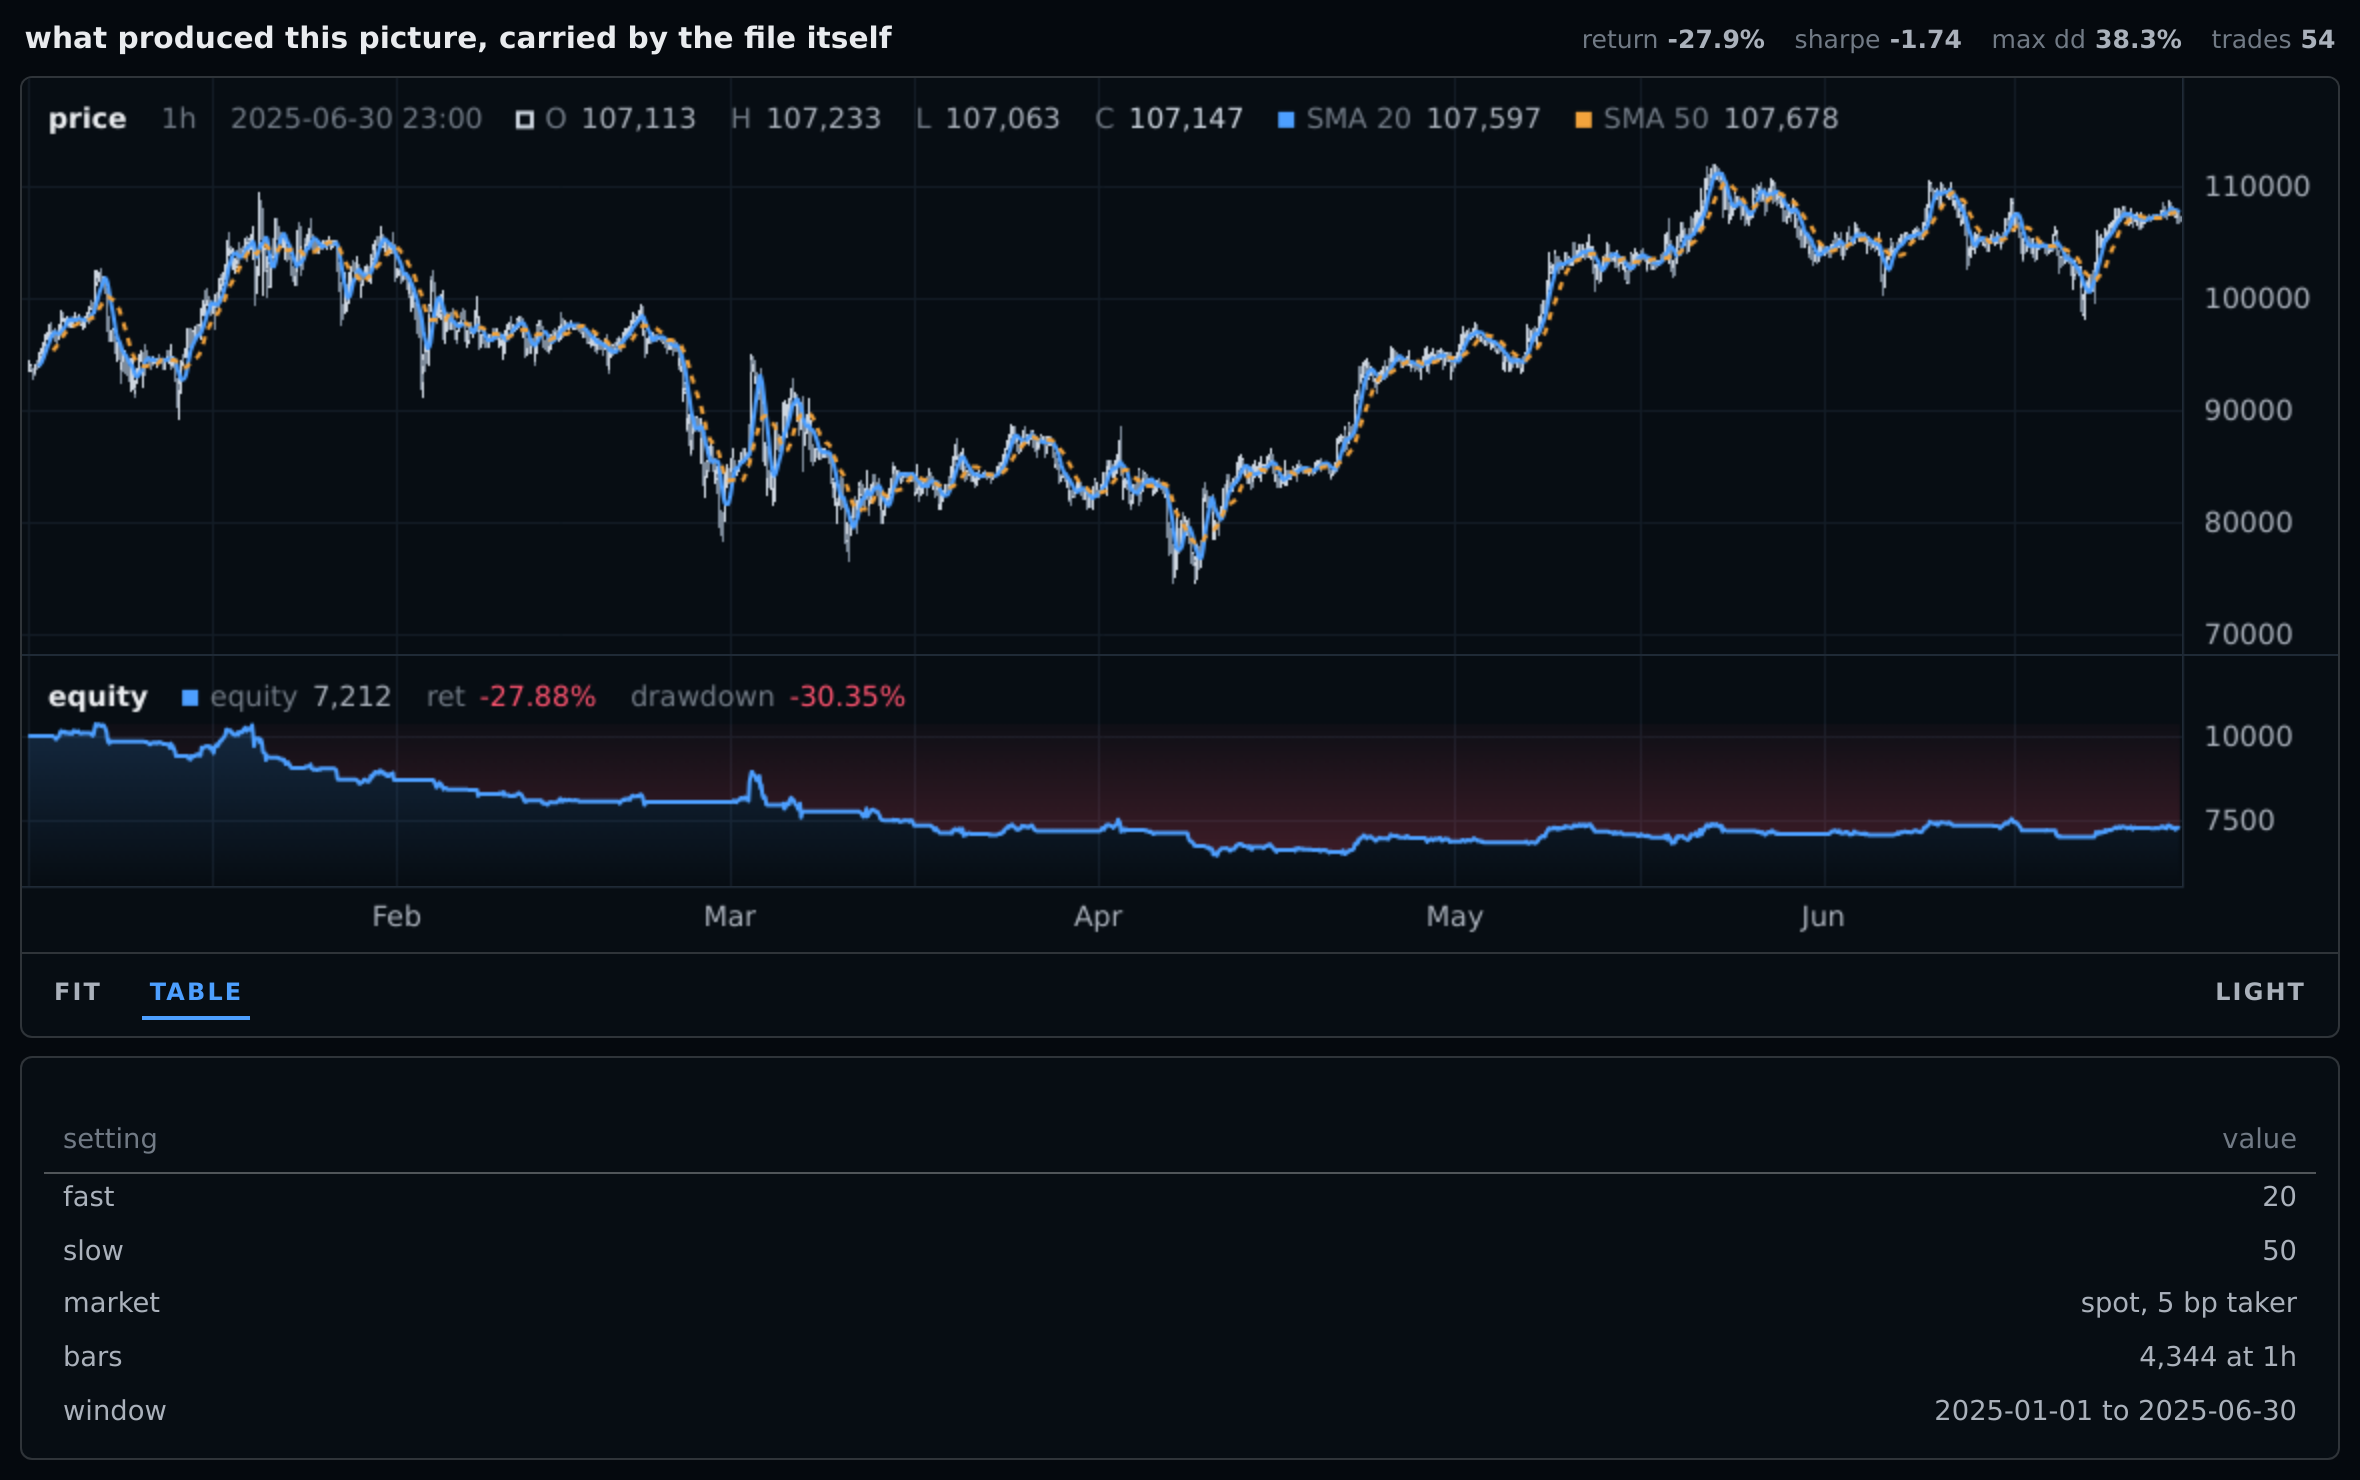
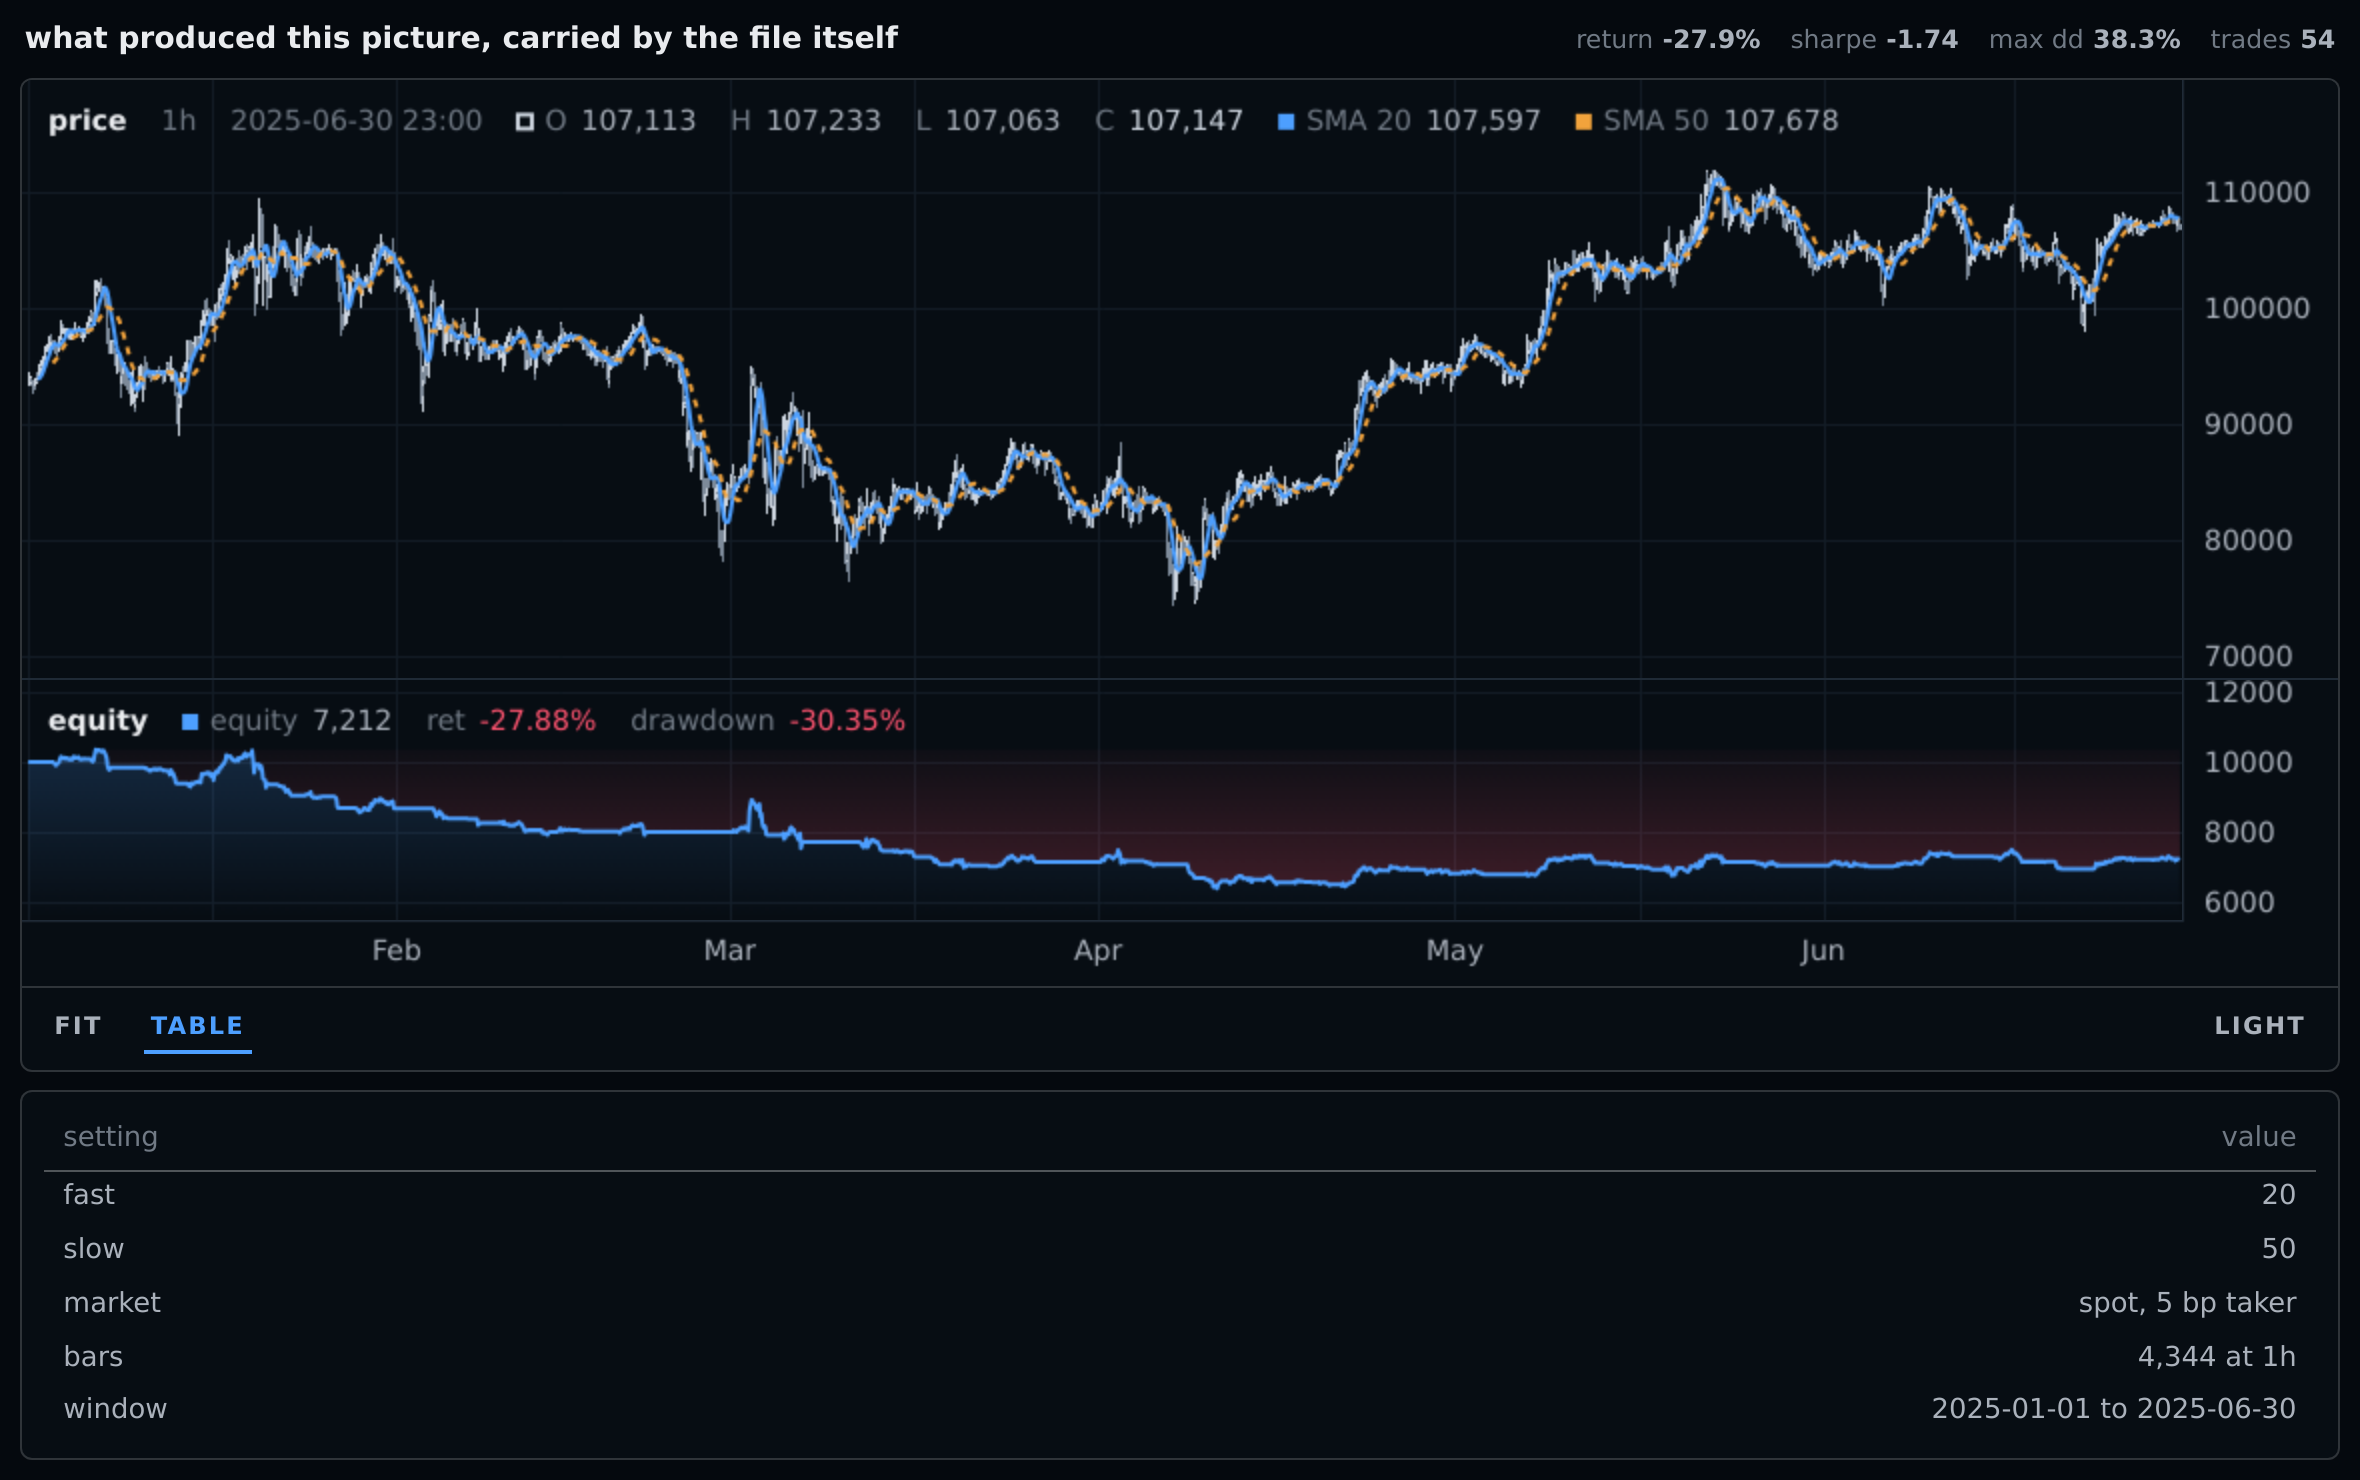
js,py,docs,test: put the caller's table above the generated one (ADR 0113)
- chart.html: notes above the trade log. 1.3.0 had it below, on the reasoning
  that the fills are the subject and the notes the footnote, and drawing the
  walk forward in the examples repo showed how wrong that was: the panel caps at
  a third of the viewport and scrolls, the trade log is generated and unbounded,
  and the notes are written by the caller who also decides their length. Under
  22 fills the windows the chart's own title is about needed scrolling to
- chart.css: the gap moves to whichever table is second, and only when the first
  is showing, so a chart with no notes does not open on a stray margin
- test_render.py: the order is asserted rather than left to the markup
- Decisions.md: recorded as a correction with the reason, not a silent reversal
- imgs/charts: ex-notes redrawn. The other fourteen came back identical, which
  is what says the change reached only what it was aimed at

diff --git a/python/emsl/_static/chart.html b/python/emsl/_static/chart.html
@@ -35,6 +35,17 @@
 </div>
 
 <div id="tablePanel" hidden>
+  <!-- whatever the caller put under the chart, above the fills rather than in a
+       panel of its own: both tables answer the question of what is under this
+       chart, so they share the one button.
+       Above, because the caller writes this one and the length of it, while the
+       trade log is generated and unbounded. Underneath a walk forward's 22 fills
+       the windows the chart's own title is about needed scrolling to, and under
+       a year of them they would be gone (ADR 0113) -->
+  <table id="notes" hidden>
+    <thead><tr id="nhead"></tr></thead>
+    <tbody id="nbody"></tbody>
+  </table>
   <table id="trades">
     <thead><tr>
       <!-- Opened and Closed rather than Entry bar and Exit bar: those two now
@@ -43,13 +54,6 @@
       <th>Entry</th><th>Exit</th><th>Fees</th><th>Net PnL</th><th>Bars</th>
     </tr></thead>
     <tbody id="tbody"></tbody>
-  </table>
-  <!-- whatever the caller put under the chart, below the fills rather than in a
-       panel of its own: both tables answer the question of what is under this
-       chart, so they share the one button (ADR 0113) -->
-  <table id="notes" hidden>
-    <thead><tr id="nhead"></tr></thead>
-    <tbody id="nbody"></tbody>
   </table>
 </div>
 

diff --git a/python/emsl/_static/chart.css b/python/emsl/_static/chart.css
@@ -153,8 +153,10 @@ body {
 #tablePanel[hidden] { display: none; }
 /* a table sets its own display, so the hidden attribute needs saying out loud */
 #trades[hidden], #notes[hidden] { display: none; }
-/* enough air that the two read as two tables and not as one with a strange row */
-#notes { margin-top: calc(16px * var(--ui)); }
+/* enough air that the two read as two tables and not as one with a strange row.
+   On the second one, and only when the first is actually showing, so a chart
+   with no notes does not open its trade log on a stray gap */
+#notes:not([hidden]) + #trades { margin-top: calc(16px * var(--ui)); }
 table { border-collapse: collapse; width: 100%; font-variant-numeric: tabular-nums; font-size: calc(12px * var(--ui)); }
 th {
   text-align: right; color: var(--muted); font-weight: 500;

diff --git a/tests/test_render.py b/tests/test_render.py
@@ -432,6 +432,13 @@ def test_notes_reach_the_panel_under_the_plot_and_survive_angle_brackets(tmp_pat
             # both tables are open together, behind the one button
             "trades_shown": page.evaluate("!document.getElementById('trades').hidden"),
             "notes_shown": page.evaluate("!document.getElementById('notes').hidden"),
+            "notes_first": page.evaluate(
+                """() => {
+                  const n = document.getElementById('notes').getBoundingClientRect();
+                  const t = document.getElementById('trades').getBoundingClientRect();
+                  return n.top < t.top;
+                }"""
+            ),
         }
         browser.close()
 
@@ -441,6 +448,10 @@ def test_notes_reach_the_panel_under_the_plot_and_survive_angle_brackets(tmp_pat
     assert seen["rows"][1][2] == "-0.31"
     assert seen["scripts"] == 0
     assert seen["trades_shown"] and seen["notes_shown"]
+    # the caller's table first. 1.3.0 had it second, and a walk forward with 22
+    # fills then hid the windows its own title was about inside a panel that
+    # scrolls; a year of fills would have put them out of reach entirely
+    assert seen["notes_first"]
 
 
 def test_notes_keep_the_table_button_on_a_chart_that_never_traded(tmp_path):

diff --git a/python/emsl/_chart.py b/python/emsl/_chart.py
@@ -1071,7 +1071,7 @@ def chart(
     numbers on the right. ``stats`` names the keys, defaulting to the four that
     decide whether a strategy is worth keeping, and ``stats=[]`` shows none.
 
-    ``notes`` puts a table of your own in the panel under the plot, under the
+    ``notes`` puts a table of your own in the panel under the plot, above the
     trade log and behind the same button. It takes a DataFrame, or a list of rows
     whose first row is the header. This is what stops a saved file carrying a
     claim and not the evidence for it: a walk-forward chart says each stretch

diff --git a/.Documentation/Decisions.md b/.Documentation/Decisions.md
@@ -288,4 +288,4 @@ The library is a stack of layers, and the one rule is that logic flows up, never
 
 **A chart does not cover one reading with another (0112).** Three marks were painting over something already on the page. The candles were the one series in the file that never turned its last value badge off, and it read as the omission it was: the renderer defaults it on, the badge takes the series' own colour, and in the light theme that is a near black block and the highest contrast object on the chart, for a number that is not the most important one on it. It does not replace an axis label, it covers one, because the last price does not land on a gridline. It also says nothing new. At rest the cursor is the last bar, so the legend's own `C` is that number already, and while the pointer moves the crosshair labels the axis itself. Second, a user `Marker`'s caption is placed from a price through `priceToCoordinate` and knew nothing about the band at the top of every pane that the legend reserves through the price scale's top margin, so a marker anchored near the high with a large offset printed its words straight across the OHLC row. The reserved height is now published out of `controls.js`, and a caption that would cross it is flipped to the other side of its own glyph rather than clamped down to it, because a clamped caption lands on the arrow it exists to label. Third, a background with no fill of its own was one flat alpha at full height with a hard edge either side, which is the banding recipe: a run of shaded stretches then reads as a rendering artifact rather than as regions that mean something. The default is two stops now, strongest at the floor, which is what `background.js` has claimed in a comment since it was written while the default went on not doing it. The edges stay hard. A soft one would read better and would put the boundary somewhere other than where it is, and a span covering exactly the bars it names is the whole of ADR 0101. A fill the caller named is left alone, because one stop means flat on every other mark and somebody who wrote a colour asked for that colour.
 
-**A saved chart carries the evidence for its own claim (0113).** A walk-forward chart says that each stretch traded on parameters fitted only on the bars before it, and the windows and their fitted parameters were printed by the notebook cell beside it. `save` drops everything that is not the chart, so the file somebody opens a week later carries the claim and not the evidence, and the first person to forward it without the notebook is looking at an assertion. `notes` takes a DataFrame, or a list of rows whose first row is the header, and puts it in the panel under the plot. Four things were settled and are worth writing down. It is on `chart` rather than on `save`, which is where an earlier sketch of it put it, because `show` is where most charts are read and a notebook cell that omits the context is the same failure one step earlier. It stacks under the trade log behind the one TABLE button rather than taking a button of its own: the footer had just been shaped so that two controls read as one group and the theme switch as the odd one out, a third member would undo that reading, and both tables are answering the same question anyway, which is what is under this chart. Every cell is written with `textContent`, like the header row above the plot, so a cell carrying angle brackets is a cell and not a decision anybody has to think about. And a DataFrame's index is not drawn, because drawing it whenever it looked meaningful would be a rule nobody could predict from the outside, while `reset_index()` is one call and says so at the call site. There is no row cap, matching the trade log, and the page says plainly that this is for context rather than for data.
+**A saved chart carries the evidence for its own claim (0113).** A walk-forward chart says that each stretch traded on parameters fitted only on the bars before it, and the windows and their fitted parameters were printed by the notebook cell beside it. `save` drops everything that is not the chart, so the file somebody opens a week later carries the claim and not the evidence, and the first person to forward it without the notebook is looking at an assertion. `notes` takes a DataFrame, or a list of rows whose first row is the header, and puts it in the panel under the plot. Four things were settled and are worth writing down. It is on `chart` rather than on `save`, which is where an earlier sketch of it put it, because `show` is where most charts are read and a notebook cell that omits the context is the same failure one step earlier. It shares the one TABLE button with the trade log rather than taking a button of its own: the footer had just been shaped so that two controls read as one group and the theme switch as the odd one out, a third member would undo that reading, and both tables are answering the same question anyway, which is what is under this chart. It sits **above** the trade log, and that is a correction: 1.3.0 put it below, on the reasoning that the fills are the subject and the notes are the footnote. Drawing the walk-forward chart in the examples repository showed how wrong that was. The panel is capped at a third of the viewport and scrolls, the trade log is generated and unbounded, and the notes are written by the caller who also decides how long they are, so under 22 fills the windows the chart's own title is about needed scrolling to and under a year of them they would have been unreachable. The author's framing goes first and the generated detail follows it. Every cell is written with `textContent`, like the header row above the plot, so a cell carrying angle brackets is a cell and not a decision anybody has to think about. And a DataFrame's index is not drawn, because drawing it whenever it looked meaningful would be a rule nobody could predict from the outside, while `reset_index()` is one call and says so at the call site. There is no row cap, matching the trade log, and the page says plainly that this is for context rather than for data.

diff --git a/.Documentation/Plotting.md b/.Documentation/Plotting.md
@@ -726,7 +726,7 @@ Passing a run gives you four by default: return, sharpe, max drawdown and trade 
 
 ### The evidence, not just the claim
 
-`notes=` puts a table of your own in the panel under the plot, below the trade log and behind the same button. It takes a DataFrame, or a list of rows whose first row is the header.
+`notes=` puts a table of your own in the panel under the plot, above the trade log and behind the same button. It takes a DataFrame, or a list of rows whose first row is the header.
 
 ```python
 emsl.chart(
